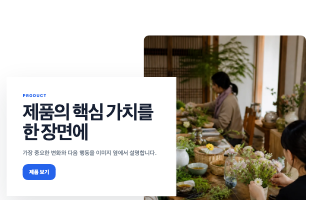
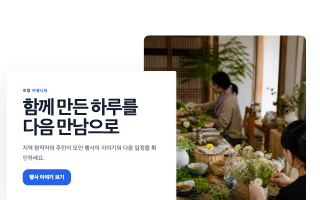
task(phase7-a02-content-20260901): submit worktree changes

Changed region(s): [[0.0625, 0.42, 0.5, 0.93], [0.4375, 0.96, 0.5625, 1.0], [0.4375, 0.33, 0.5625, 0.39]]

diff --git a/CHANGELOG.md b/CHANGELOG.md
@@ -8,6 +8,7 @@
 
 ### Changed
 
+- Hero 분할형 2종을 지역 행사·공간 방문 문맥으로 교체하고 CTA 2종의 보조 행동을 실제 서비스 경로로 연결했습니다.
 - 대표 프리셋 6개의 지시문형 샘플을 실제 서비스 문맥·현장 이미지·구체적 링크와 대체텍스트로 제품화했습니다.
 - 대표 Page Kit 3개의 행동 경로와 샘플 표시를 정비했습니다.
 
